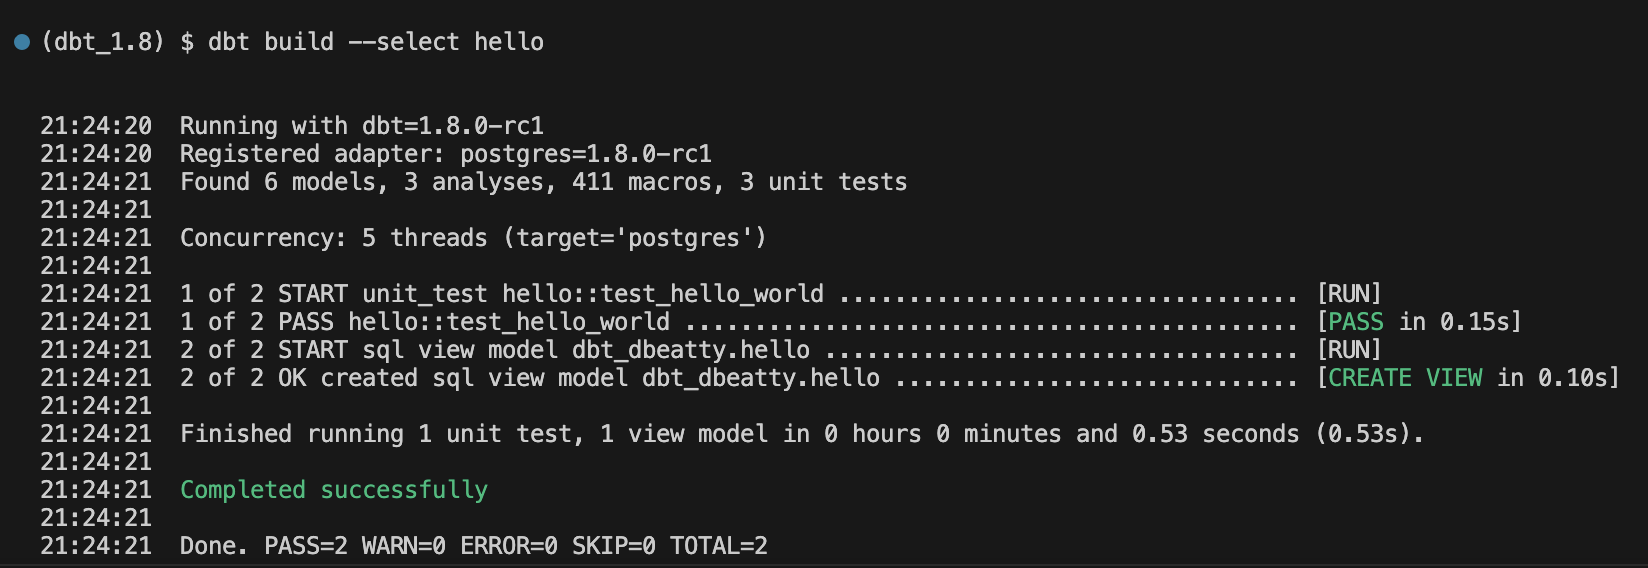
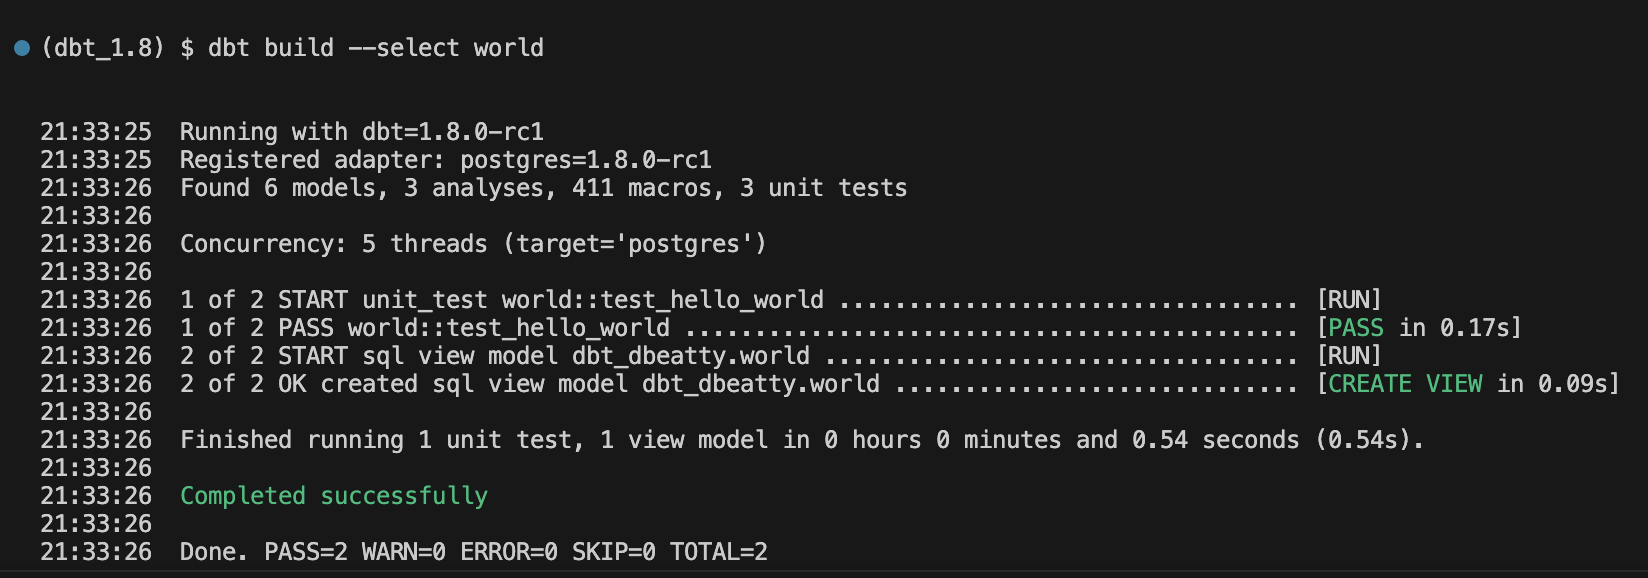
Update model name in the "hello world" example

diff --git a/website/blog/2024-05-07-unit-testing.md b/website/blog/2024-05-07-unit-testing.md
@@ -55,7 +55,7 @@ A key way that I build self-confidence is starting out with the [simplest exampl
 First, create this trivial model:
 
 ```sql
--- models/hello.sql
+-- models/world.sql
 
 select 'world' as hello
 ```
@@ -69,7 +69,7 @@ unit_tests:
   - name: test_hello_world
 
     # Always only one transformation to test
-    model: hello
+    model: world
 
     # No inputs needed this time!
     # Most unit tests will have inputs -- see the "real world example" section below
@@ -84,7 +84,7 @@ unit_tests:
 Finally, run the model and all its tests in a single command like this:
 
 ```shell
-dbt build --select hello
+dbt build --select world
 ```
 
 <Lightbox src="/img/blog/2024-05-07-unit-testing/unit-test-terminal-output.png" title="Terminal output of hello world unit test" />
